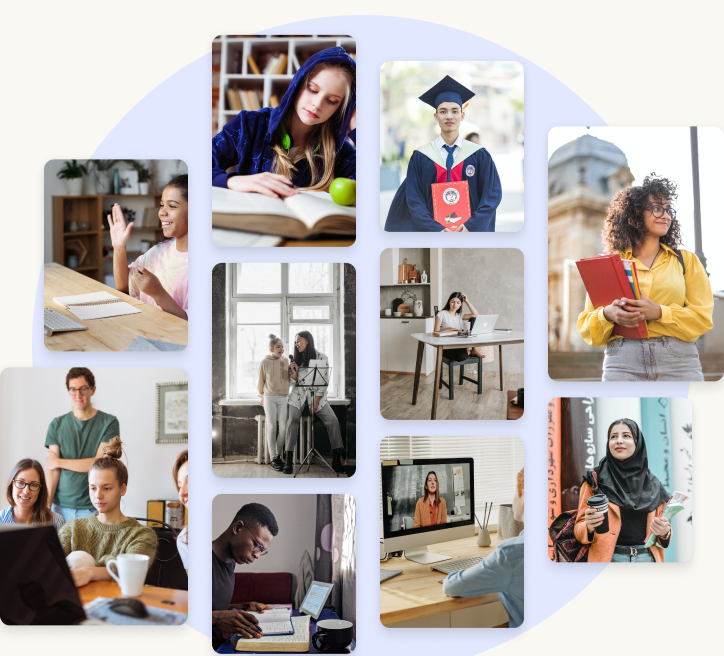
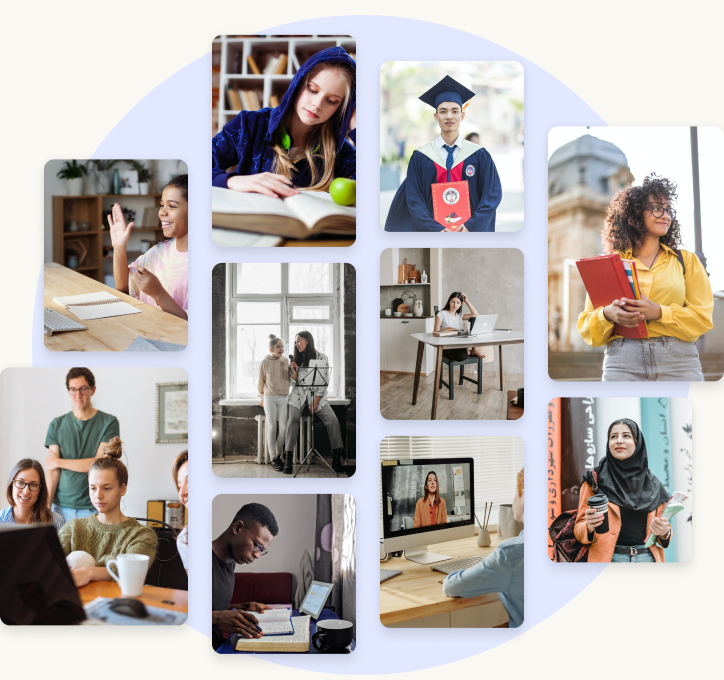
Polish mobile collage and testimonial after Astra review

diff --git a/components/landing/testimonial.tsx b/components/landing/testimonial.tsx
@@ -22,7 +22,7 @@ export function Testimonial() {
             The lessons are short enough to fit into my week, but detailed
             enough that I actually leave with something I can use.
           </blockquote>
-          <figcaption className="flex items-center gap-3 text-sm md:gap-4">
+          <figcaption className="flex items-center gap-4 text-sm">
             <Image
               className="rounded-full"
               src={alexAvatar}
@@ -31,10 +31,8 @@ export function Testimonial() {
               height={48}
             />
             <div>
-              <strong className="block text-sm font-bold md:text-base">
-                Alex Morgan
-              </strong>
-              <span className="block text-xs text-luma-muted md:text-sm">
+              <strong className="block text-base font-bold">Alex Morgan</strong>
+              <span className="block text-sm text-luma-muted">
                 Product Manager
               </span>
             </div>

diff --git a/components/landing/community.tsx b/components/landing/community.tsx
@@ -44,7 +44,7 @@ export function Community() {
             Explore teachers and students
           </ButtonLink>
         </div>
-        <picture>
+        <picture className="mt-3.5 md:mt-0">
           <source
             media="(min-width: 768px)"
             srcSet={desktop.srcSet}

diff --git a/docs/verification.md b/docs/verification.md
@@ -36,10 +36,14 @@ The course-photo concern was investigated rather than accepted as a crop change:
 - T0 corrective delta: PASS for conflict markers, secret scan, applicable Semgrep rules, strict typecheck and lint. No lockfile change; dependency vulnerability scanning was skipped. Binary assets are outside code scanning.
 - The landing browser file passed on desktop/mobile: navigation, focus, form validation/reset, no transmission, no-JavaScript privacy, selected Axe rules and overflow at seven widths. Its two project-specific cases intentionally skip the other viewport.
 - The new isolation regression first failed on mobile heading typography and footer focus color. A later run exposed outline-color animation during focus; button transitions now affect only background/border. The corrected isolation file passed in both projects. Only that failed file was rerun after the transition change; the complete suite was not rerun on that final styling delta.
-- Opened all five desktop and seven mobile comparison bands, plus 768/1024px tablet overview captures. Desktop measures 1280×5718 against 1280×5691 (+27px); mobile measures 402×7809 against 402×7799 (+10px). Baseline differences were +44/+48px. Height differences are measurements, not a visual-quality score.
+- Opened all five desktop and seven mobile comparison bands, plus 768/1024px tablet overview captures. Desktop measures 1280×5718 against 1280×5691 (+27px); mobile measures 402×7834 against 402×7799 (+35px). Baseline differences were +44/+48px. Height differences are measurements, not a visual-quality score.
 - All sections and frame-specific compositions remain present. Residuals include text rasterization/wrapping, small accumulated vertical offsets and CTA decoration geometry. Input typography and darkened muted labels are intentional accessibility differences.
 
-A fresh Astra review of the corrected source and these visual artifacts is pending. The baseline REQUEST_CHANGES is not approval of this correction.
+The fresh GPT-6 Astra review of `3494274` returned **APPROVE**, with no blocking finding. It read the original PDF and complete source, opened all twelve comparison bands, both tablet overviews, course/policy dialogs and selected source slices. Architecture, TypeScript, Tailwind ownership, all sections, local interactions and the honest candidate/AI disclosure were accepted. The original course-crop suspicion was not confirmed; centered cover is supported.
+
+Two low visual observations were accepted and corrected afterward: the mobile community asset now includes the entire bottom arc (362×340) with its reference interval above; testimonial author typography uses 16/14px and a 16px avatar gap. Production build, strict typecheck, changed-file lint, delta scanners and the affected landing browser file passed after those changes. The final community/author comparisons were opened again. Restoring the complete artwork increases mobile height compared with the intermediate 7809px capture; it is not trimmed to improve an aggregate height measurement.
+
+The independent review did not rerun the author's commands or perform remote operations. No extra CI, deploy or form submission was added.
 
 ## Limits
 

diff --git a/docs/assets.md b/docs/assets.md
@@ -6,7 +6,7 @@ All page imagery comes from the supplied [Figma design](https://www.figma.com/de
 - Course original photograph: `fc63af3622dbbc93f781fafdfc95a5b1442333b4`.
 - The original JPGs are passed directly to Next's responsive optimizer at quality 90, avoiding a manually encoded WebP followed by a second lossy optimization. Centered `object-cover` matches the supplied photo boxes.
 - Desktop community and avatar groups: image-only extracts from the 2× desktop export, encoded as WebP.
-- Mobile community: its distinct 362×328 composition, extracted at 2× (724×656) from the mobile export and retained as PNG. Responsive picture sources select it independently from the taller desktop collage.
+- Mobile community: its distinct 362×340 composition, extracted at 2× (724×680) from the mobile export and retained as PNG. Responsive picture sources select it independently from the taller desktop collage.
 - Quote mark: a decorative image-only 32×32 extract at 2× from the desktop export. The quotation itself remains HTML.
 - Fonts: Plus Jakarta Sans and Inter, distributed by Fontsource under their upstream open font licenses. Font packages retain the license notices.
 
